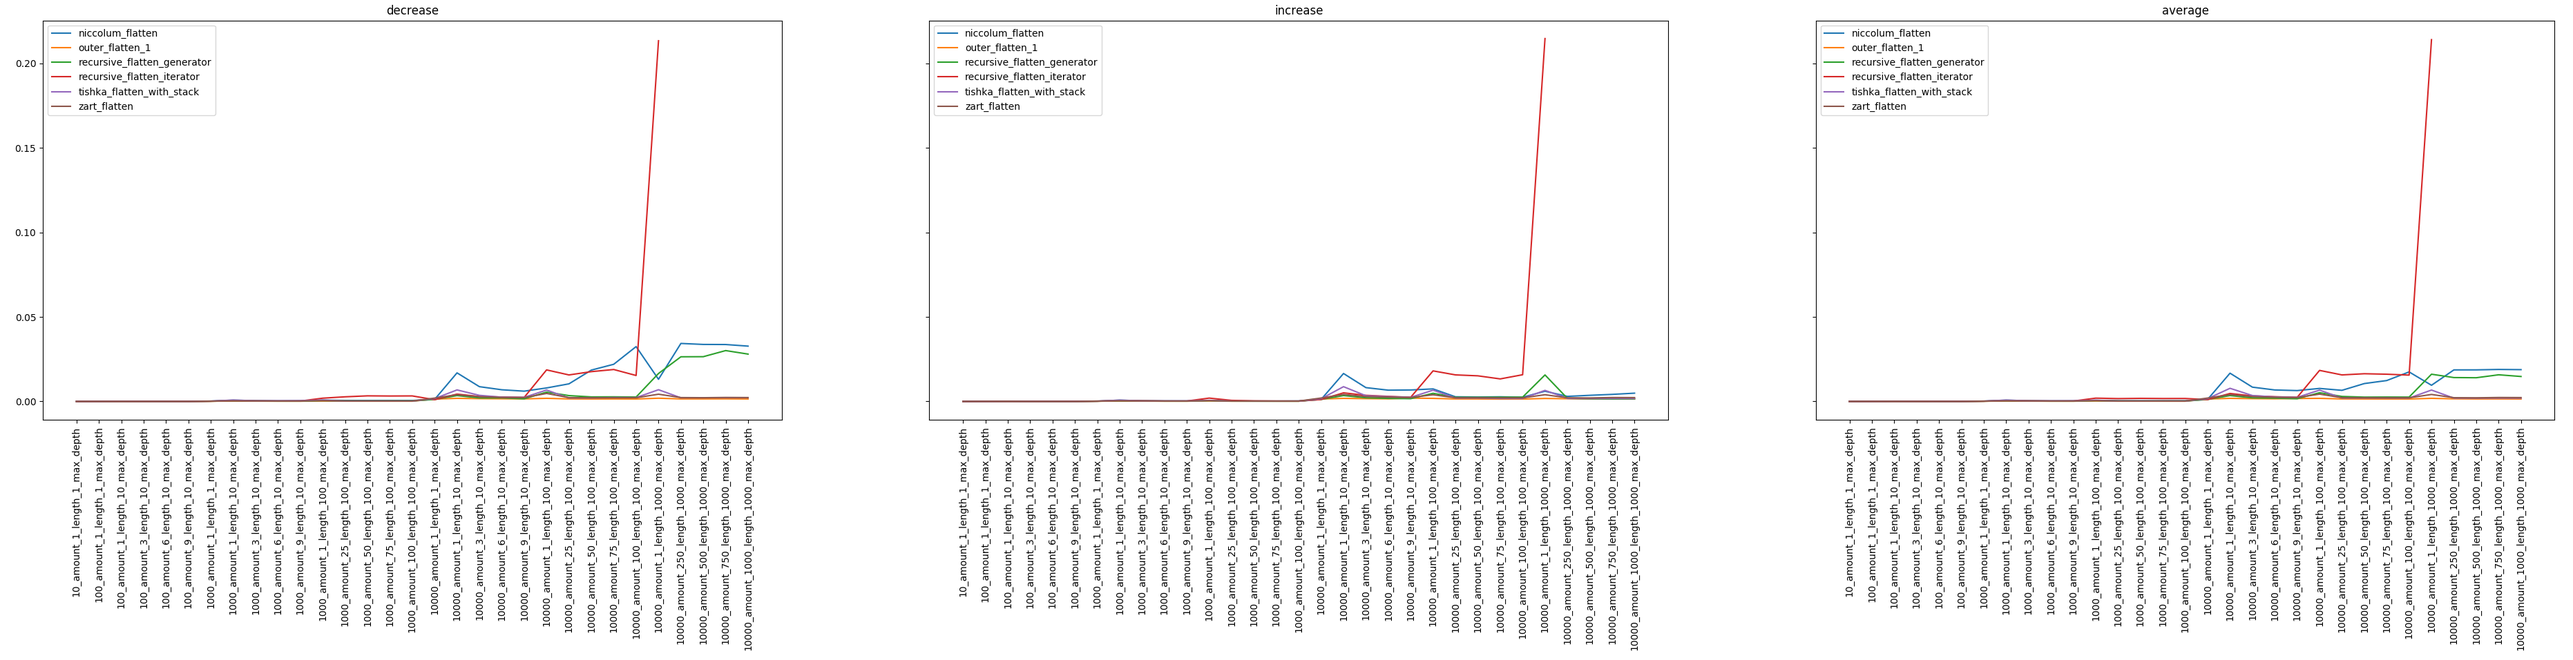
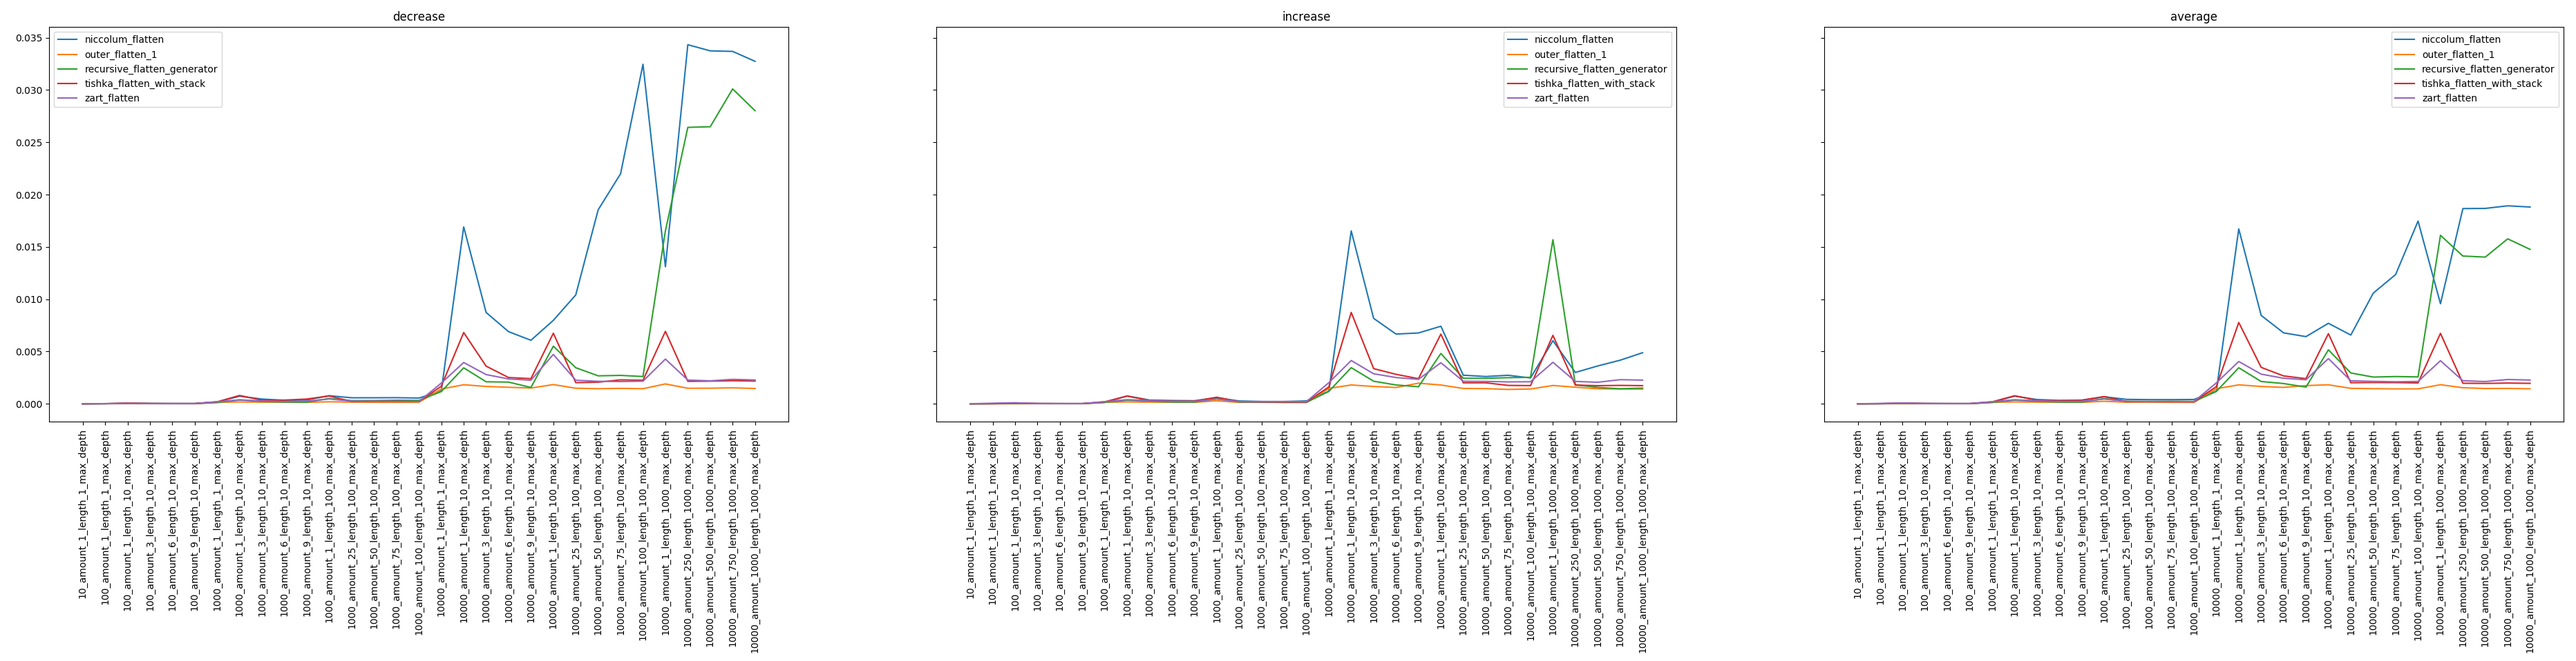
fix result2

diff --git a/unpacking_flatten_lists/make_performance_plot.py b/unpacking_flatten_lists/make_performance_plot.py
@@ -51,4 +51,4 @@ def main(exclude_funcs: List[str] = None) -> None:
 
 if __name__ == '__main__':
     main()
-    main(exclude_funcs=['tishka_flatten', 'outer_flatten_2', 'recursion_flatten'])
+    main(exclude_funcs=['tishka_flatten', 'outer_flatten_2', 'recursive_flatten_iterator'])
